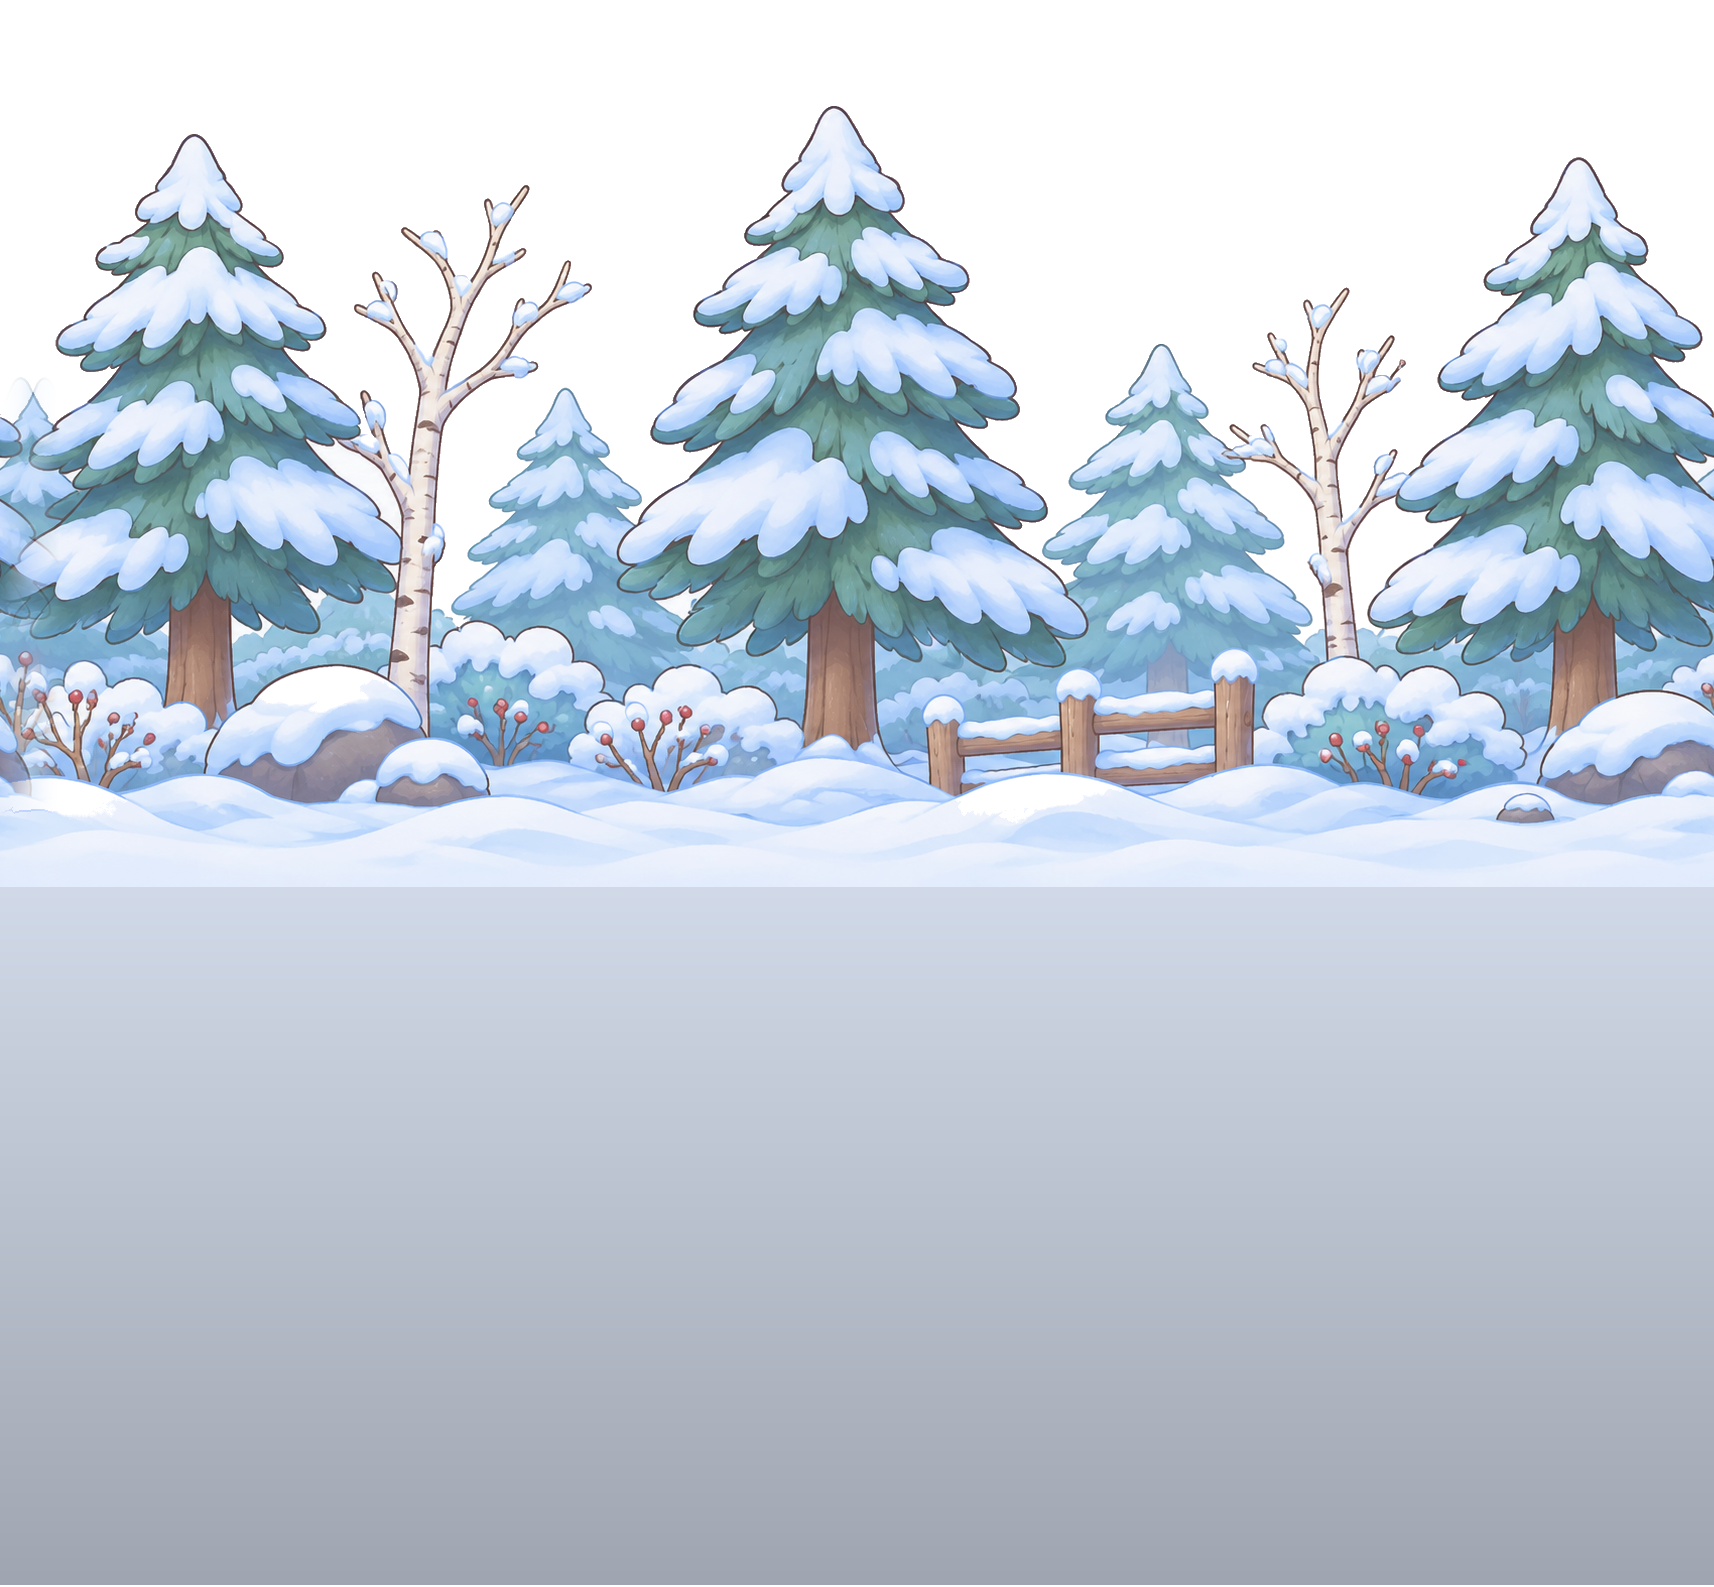
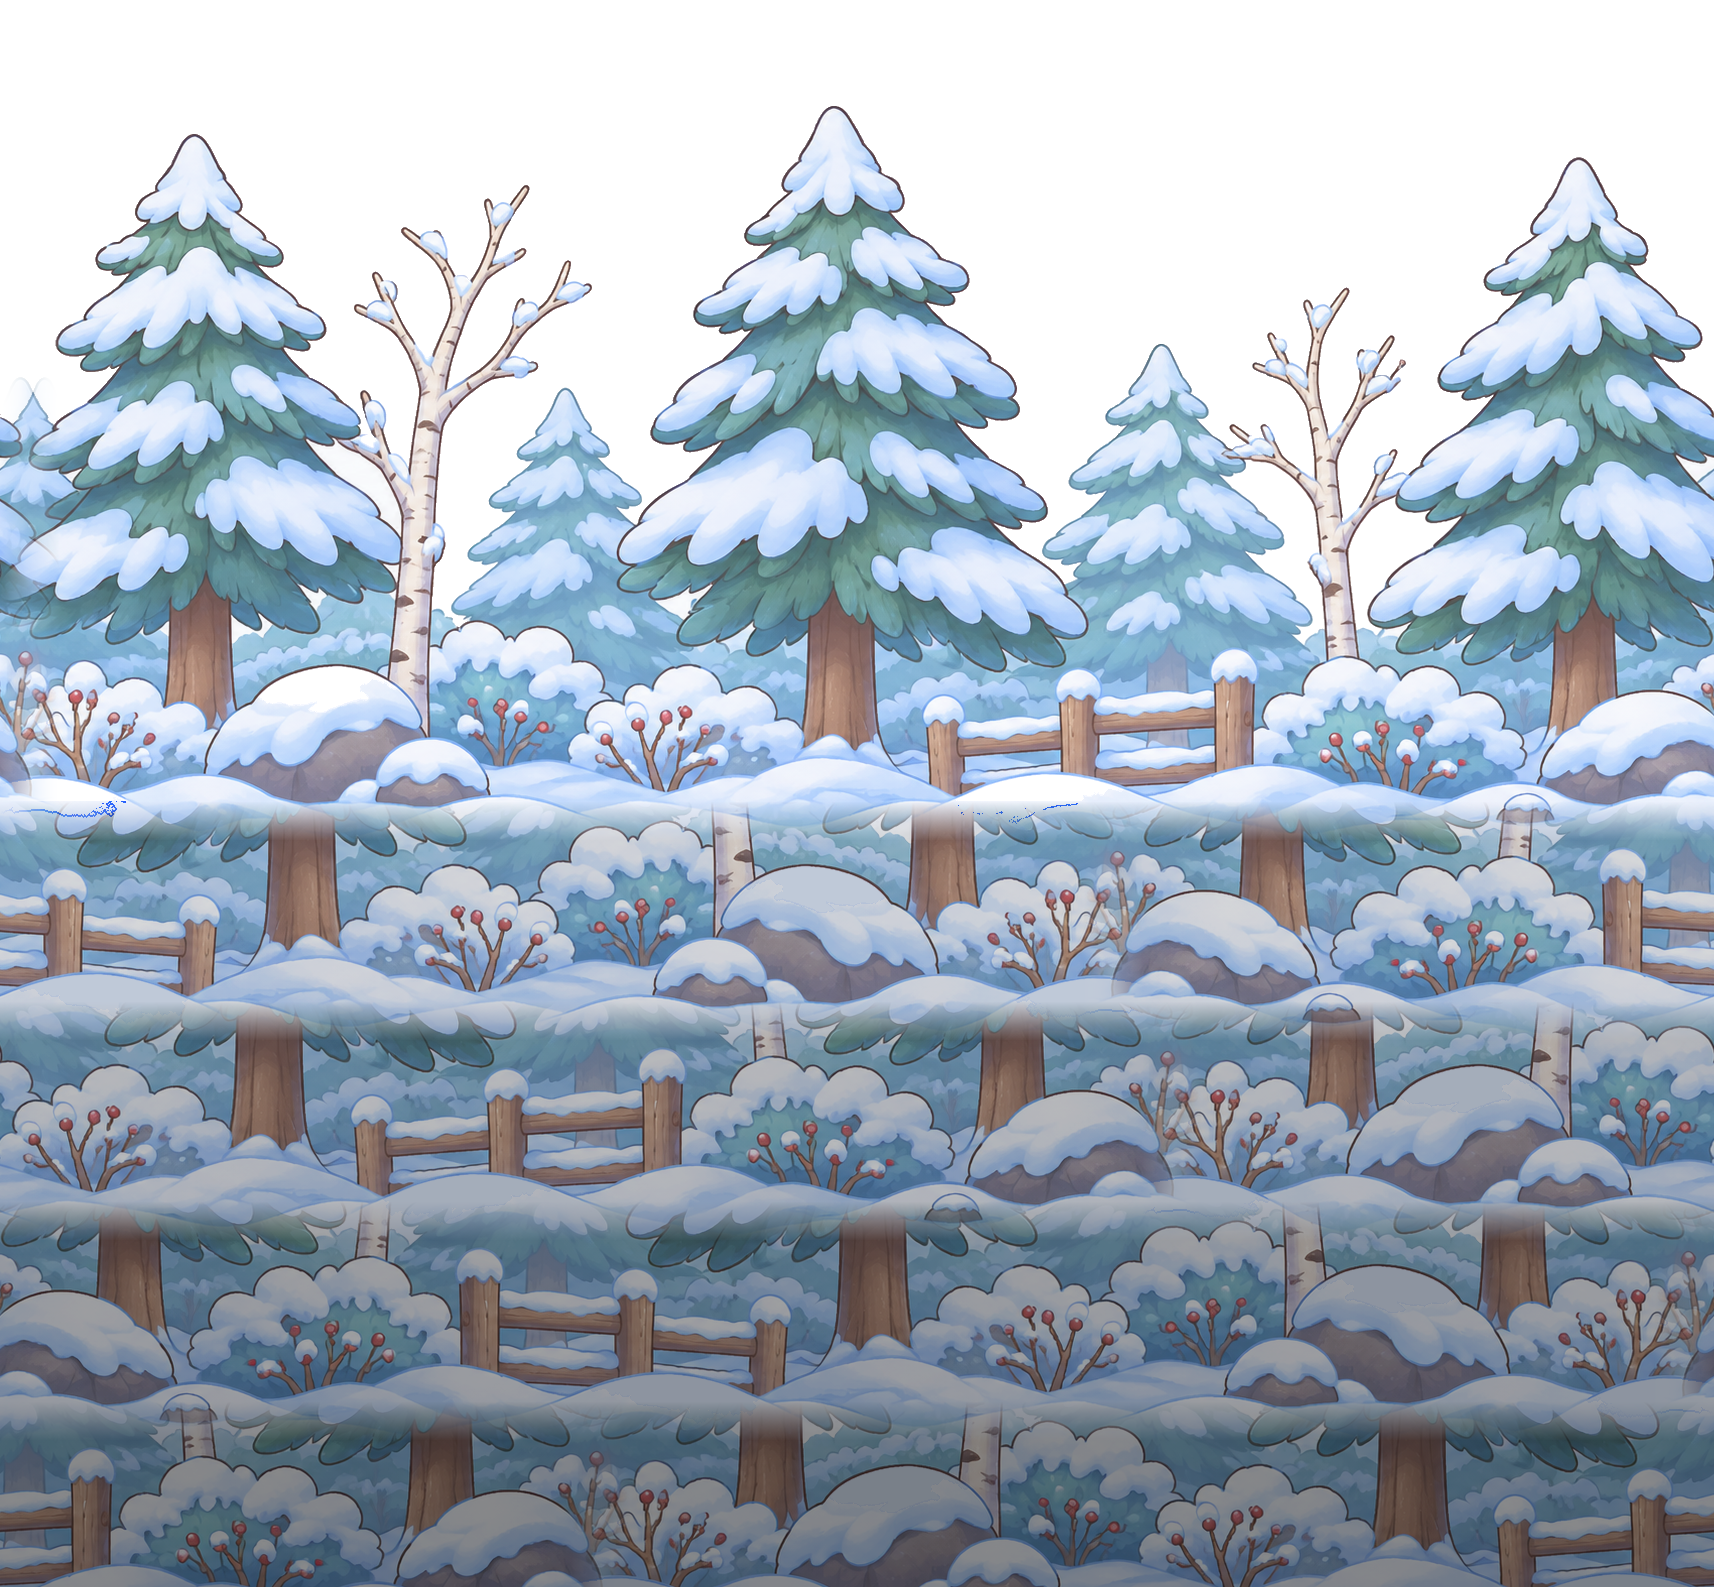
Fill the flat block under every world's mid background so jumps never show an empty band; note AdMob payments to-do

diff --git a/tools/art_pipeline/extend_bg_mid.py b/tools/art_pipeline/extend_bg_mid.py
@@ -1,0 +1,82 @@
+"""Fills the FLAT block under each world's middle background layer (bg_mid.png) with more scenery.
+
+The painted mid layers (hills, trees, dunes...) end in a plain single-colour block that the ground
+normally hides. The background moves up and down more slowly than the ground (that is the depth effect),
+so when the camera rises for a jump the ground slides down past the scenery and that flat block showed
+as an empty band (owners, 19 Nov 2026). Here the dense undergrowth just above the block is copied
+downwards, each copy a little darker (deeper in the shade), so a jump only ever shows more scenery.
+
+Overwrites assets/art/backgrounds/<world>/bg_mid.png (the originals are in Git). Safe to re-run: a picture
+with no flat block left is skipped.
+Run:  python tools/art_pipeline/extend_bg_mid.py
+"""
+from pathlib import Path
+
+import numpy as np
+from PIL import Image
+
+ROOT = Path(__file__).resolve().parents[2]
+WORLDS = ["meadow", "town", "forest", "snow", "sand"]
+FLAT_SD = 6.0      # a row whose colours vary less than this is "flat"
+BAND_MAX = 240     # how much undergrowth (px above the flat block) to copy downwards
+BLEND = 40         # px over which each copy fades into the one above (no hard seam)
+SHADE = 0.86       # each copy down is this much darker
+
+
+def flat_start(a: np.ndarray) -> int:
+    sd = a[:, :, :3].std(axis=1).mean(axis=1)
+    y = a.shape[0] - 3
+    while y > 0 and sd[y] < FLAT_SD:
+        y -= 1
+    return y + 1
+
+
+def band_rows(a: np.ndarray, y0: int) -> int:
+    """How many mostly opaque rows sit right above the flat block (up to BAND_MAX)."""
+    k = 0
+    while k < BAND_MAX and y0 - k - 1 >= 0 and (a[y0 - k - 1, :, 3] > 240).mean() > 0.6:
+        k += 1
+    return k
+
+
+def extend(world: str) -> None:
+    path = ROOT / "assets" / "art" / "backgrounds" / world / "bg_mid.png"
+    a = np.asarray(Image.open(path).convert("RGBA")).astype(np.float32)
+    h, w = a.shape[:2]
+    y0 = flat_start(a)
+    if h - y0 < 20:
+        print(world, "no flat block, skipped")
+        return
+    k = band_rows(a, y0)
+    if k < BLEND * 2:
+        print(world, "undergrowth band too thin:", k)
+        return
+    band = a[y0 - k:y0].copy()
+    fill = a[y0 + 2, :, :3].mean(axis=0)              # see-through bits of the band show the block's colour
+    alpha = band[:, :, 3:4] / 255.0
+    band[:, :, :3] = band[:, :, :3] * alpha + fill * (1 - alpha)
+    out = a.copy()
+    y = y0 - BLEND           # each copy overlaps the rows above by BLEND, fading in
+    n = 1
+    while y < h:
+        piece = band.copy()
+        piece = np.roll(piece, (n * w) // 3, axis=1)   # shifted sideways: no stacked look (it tiles anyway)
+        if n % 2:
+            piece = piece[:, ::-1]
+        piece[:, :, :3] *= SHADE ** n
+        rows = min(k, h - y)
+        fade = np.ones((rows, 1, 1), np.float32)
+        ramp = min(BLEND, rows)
+        fade[:ramp, 0, 0] = np.linspace(0.0, 1.0, ramp)
+        cur = out[y:y + rows]
+        out[y:y + rows, :, :3] = cur[:, :, :3] * (1 - fade) + piece[:rows, :, :3] * fade
+        out[y:y + rows, :, 3] = 255
+        y += k - BLEND
+        n += 1
+    Image.fromarray(np.clip(out, 0, 255).astype(np.uint8)).save(path)
+    print(world, "filled rows", y0, "to", h, "with a", k, "px band")
+
+
+if __name__ == "__main__":
+    for world in WORLDS:
+        extend(world)

diff --git a/plan.md b/plan.md
@@ -445,6 +445,7 @@ Order agreed 30 Oct 2026: save system → home page → level map → pause / le
   - ✅ **WORLD 5 COMPLETE (18 Nov 2026) — all 50 levels of Worlds 1–5 exist.** Lengths 20.1k → 21.3k → 22.9k → 26.9k → 25.8k → 26.6k → 28.4k → 29.2k → 31.6k → 20.2k. New in World 5: quicksand (+ quicksand fields with pot / ledge routes), sand moles, sand-yellow slimes, clay pots, falling coconuts, cactus spikes, crumbling sandstone (bridges and stairs), flying carpets, turquoise oasis water, and two special skies (sunset, sandstorm). New play checks: quicksand walked tired, pot routes hopped dry, every mole passed at 3 timings, every palm grove run watching the shadows. **Final check (19 Nov 2026):** every test set and all 50 levels of Worlds 1–5 replayed; the only failure was a mole pair in 5-6 standing too close together (the same issue as 5-4 and 5-9) → spaced apart, 5-6 then passed 3/3 and World 5 replayed clean.
     - **Next (per §1 release plan: the big public release comes with Worlds 1–5):** the owners play-test Worlds 4–5 on a test APK; World 4 + World 5 achievements in Play Console; decide ads / Premium (§13.2); set `SaveManager.TEST_OPEN_ALL` = false before any release build check (it only affects debug builds, but play-test the unlock order once); version bump and a release bundle.
     - **Test APK for the co-founder (19 Nov 2026):** `builds/wiwiwi-test-worlds1-5.apk` (209 MB, debug, 64 + 32-bit): all 50 levels, every level open (`TEST_OPEN_ALL`). The owners played World 5 on the PC first (`-- --open-all`) — "seems good".
+    - **Background gap fixed (19 Nov 2026, owners):** on a jump the camera rises and the ground slides down faster than the slow middle background layer, which showed the plain one-colour block painted under its scenery. `tools/art_pipeline/extend_bg_mid.py` repaints that block in all five `bg_mid.png` (meadow, town, forest, snow, sand) with the undergrowth just above it copied downwards, a little darker each copy, so a jump only shows more scenery. Checked in-game with the camera 380 px up in Worlds 1–5. (Owners can later supply painted, taller mid layers if they want a hand-made look.)
     - **Optional art:** a painted sunset far layer (like the aurora one) for 5-5/5-6/5-10; quicksand as a thin layer over sandstone instead of a deep pool, if the owners prefer.
 
 ### M4 — Polish + closed test (≈ 60 h)
@@ -499,7 +500,8 @@ Recorded 11 Nov 2026 from the owners' notes. **Not in the current build**; each 
   - Interstitial (`wiwiwi_interstitial`): `ca-app-pub-4636740711495231/9879325523`
   - **GDPR consent message "wiwiwi GDPR" published (19 Nov 2026):** English, buttons Consent / Do not consent / Manage options, privacy URL /privacy, fallback consent collection off (the game shows it itself via Google's UMP SDK). ⚠ The game must also get a **"Privacy choices" button in Settings** that reopens the form (required for EEA/UK users). US state regulations message: optional, owners may add it.
   - **app-ads.txt** (owners, to do): one line `google.com, pub-4636740711495231, DIRECT, f08c47fec0942fa0` at the root of the developer website listed on Google Play (check Play Console → Store settings → Website: wiwiwi.digicraft.one or digicraft.one).
-  - Names and IDs confirmed from the AdMob ad units list. Frequency capping in AdMob: none (the game itself limits interstitials to every 2 levels).
+  - Names and IDs confirmed from the AdMob ad units list.
+  - ⚠ **AdMob payment details not filled yet (owners, 19 Nov 2026), to do later:** bank account (Payments → Payment methods) and US tax info (W-8BEN-E, India treaty; confirm the LOB choice with the CA). The payments profile name and address are already verified (2 Sep 2026). Frequency capping in AdMob: none (the game itself limits interstitials to every 2 levels).
   - ⚠ Development and test APKs use Google's **test ad unit IDs** only; the real IDs go in release builds. Never tap our own live ads.
 - **Ad plan (owners, 19 Nov 2026), replaces "after every level":** three placements.
   1. **Interstitial between levels, every 2 finished levels**, shown after the result card, never during play; not in the first few levels of World 1; skipped if a rewarded ad was just watched; never for Premium players.
